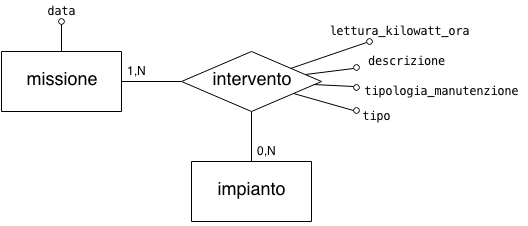
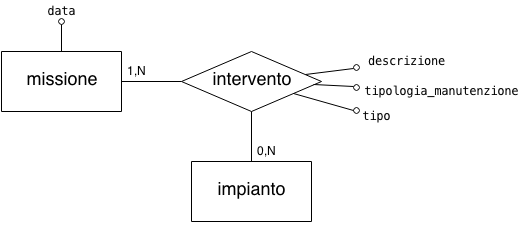
Add the 'Lettura' association

diff --git a/sections/schema-concettuale/documentazione-entita-e-associazioni.md b/sections/schema-concettuale/documentazione-entita-e-associazioni.md
@@ -1,0 +1,24 @@
+### Documentazione delle entità
+
+| Entità                   | Descrizione                                          | Attributi                                                                                                          | Identificatore            |
+|--                        | -                                                    | -                                                                                                                  | -                         |
+| impianto                 | impianto di illuminazione                            | latitudine, longitudine, altezza, indirizzo, sostegno, sorgente_di_illuminazione, linea_elettrica_di_alimentazione | codice                    |
+| segnale stradale         | segnale stradale luminoso                            |                                                                                                                    |                           |
+| semaforo                 | strumento per il controllo del traffico agli incroci |                                                                                                                    |                           |
+| attraversamento pedonale | punto riservato all'attraversamento dei pedoni       |                                                                                                                    |                           |
+| lampione                 | strumento di illuminazione della strada              |                                                                                                                    |                           |
+| quadro di controllo      | strumento per il controllo di altri impianti         | numero_uscite, stato_di_funzionamento, descrizione_intervento_richiesto                                            |                           |
+| operatore                | impiegato dell'agenzia                               | matricola, nome, cognome, email, telefono, indirizzo_di_residenza                                                  | matricola                 |
+| missione                 | compito giornaliero assegnato agli operatori         | data                                                                                                               | data, matricola_operatore |
+
+
+### Documentazione delle associazioni
+
+| Relazione     | Descrizione                                                                   | Entità coinvolte                   | Attributi                                                       |
+|--             | -                                                                             | -                                  | -                                                               |
+| controllo     | associa un quadro di controllo agli impianti che controlla                    | quadro di controllo, impianto      |                                                                 |
+| illuminazione | associa un lampione all'attraversamento pedonale che illumina                 | lampione, attraversamento pedonale |                                                                 |
+| intervento    | associa una missione agli impianti su cui si è intervenuti in quella missione | missione, impianto                 | tipo, tipologia_manutenzione, descrizione, lettura_kilowatt_ora |
+| lettura       | descrive la lettura di un quadro di controllo nell'ambito di una missione     | missione, quadro di controllo      | kilowatt_ora                                                    |
+| assegnamento  | associa un operatore a ciascuna missione                                      | missione, operatore                |                                                                 |
+

diff --git a/sections/schema-concettuale/entita-e-associazioni.md b/sections/schema-concettuale/entita-e-associazioni.md
@@ -270,7 +270,7 @@ modo da dettagliare il concetto piuttosto vago di "informazioni anagrafiche".
 
 ![](images/entita-operatore.png)
 
-#### Promozione del concetto "missione" a entità e "intervento" ad associazione
+#### Promozione del concetto "missione" a entità, "intervento" e "lettura" ad associazioni
 
 La frase
 
@@ -314,7 +314,9 @@ suggerisce l'aggiunta di un nuovo tipo di intervento, ossia "ispezione".
 - `"manutenzione"`
 - `"ispezione"`
 
-##### Lettura
+![](images/entita-missione-associazione-intervento.png)
+
+#### Promozione del concetto di "lettura" ad associazione
 
 La frase
 
@@ -324,18 +326,25 @@ La frase
 > lettura si registrano i kilowatt/ora indicati dal contatore, la data della
 > lettura e l'operatore che l’ha effettuata.
 
-suggerisce l'aggiunta di un attributo `lettura_kilowatt_ora` (con possibile valore
-nullo) all'associazione "intervento". In questo modo, la lettura dei
-kilowatt/ora è associata a una missione (dunque una data e un operatore) e a un
-intervento (e dunque a un impianto). Per fare ciò si aggiunge un possibile tipo
-a intervento: `"lettura"`.
+suggerirebbe la possibile aggiunta di un attributo `lettura_kilowatt_ora` (con
+possibile valore nullo) all'associazione "intervento". In questo modo, la
+lettura dei kilowatt/ora sarebbe associata a una missione (dunque una data e un
+operatore) e a un intervento (e dunque a un impianto).
 
-**Vincolo** l'attributo `lettura_kilowatt_ora` dell'associazione "intervento"
-può essere non nullo se e solo se l'intervento in questione è associato a un
-impianto di tipologia "quadro di controllo" e l'intervento è di tipo
-`"lettura"`.
+In questo modo però ci si troverebbe costretti ad aggiungere un nuovo tipo di
+intervento (`"lettura"`) e ad aprirsi alla possibilità di poter effettuare più
+interventi sullo stesso impianto in una data missione. Questo porterebbe a dover
+riformulare lo schema concettuale in modo da rendere "intervento" un'entità a sé
+stante, altrimenti si avrebbero più istanze di associazione tra due istanze (di
+"missione" e "impianto"), che è impossibile per definizione di associazione.
 
-![](images/entita-missione-associazione-intervento.png)
+Si è scelto dunque di rendere "lettura" un'associazione tra le entità "missione"
+e "quadro di controllo", in modo da poter mantenere informazioni sul valore
+della lettura (attributo `kilowatt_ora` dell'associazione "lettura") ma anche
+sulla missione in cui è stata effettuata la lettura -- e di conseguenza la data
+della lettura -- e l'operatore che ha effettuato la lettura.
+
+![](images/associazione-lettura.png)
 
 #### Associazione tra "missione" e "operatore"
 

diff --git a/main.md b/main.md
@@ -16,3 +16,4 @@
 <<[sections/schema-concettuale/entita-e-associazioni.md]
 <<[sections/schema-concettuale/ristrutturazione-frasi.md]
 <<[sections/schema-concettuale/diagramma-er.md]
+<<[sections/schema-concettuale/documentazione-entita-e-associazioni.md]
